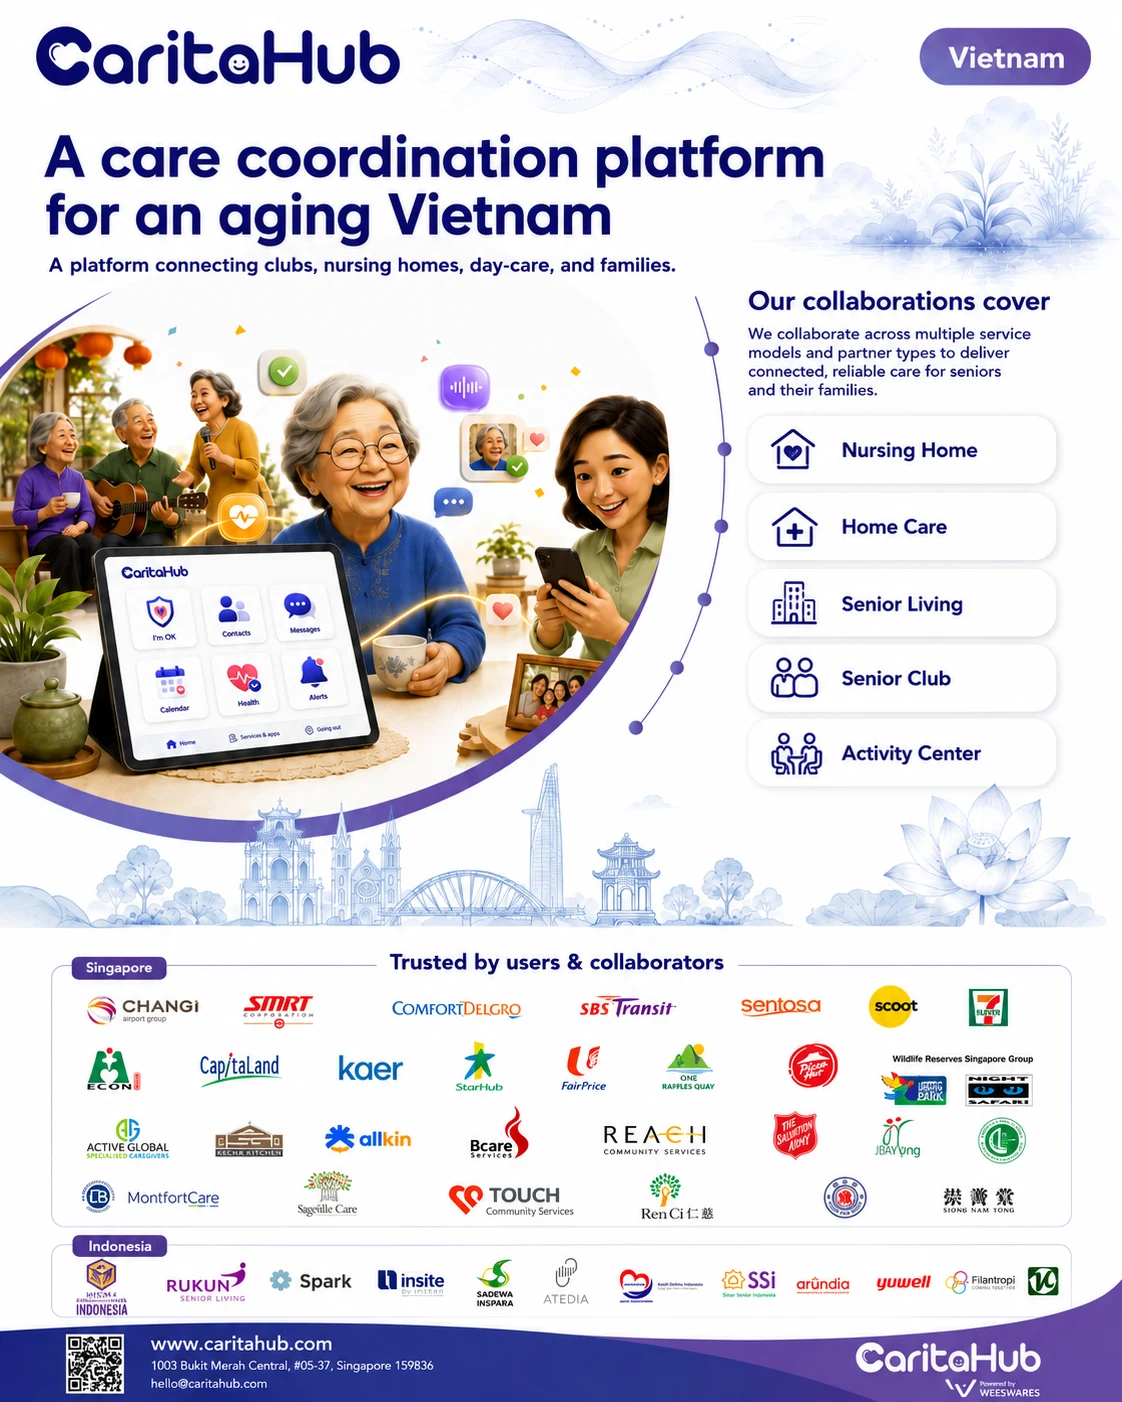
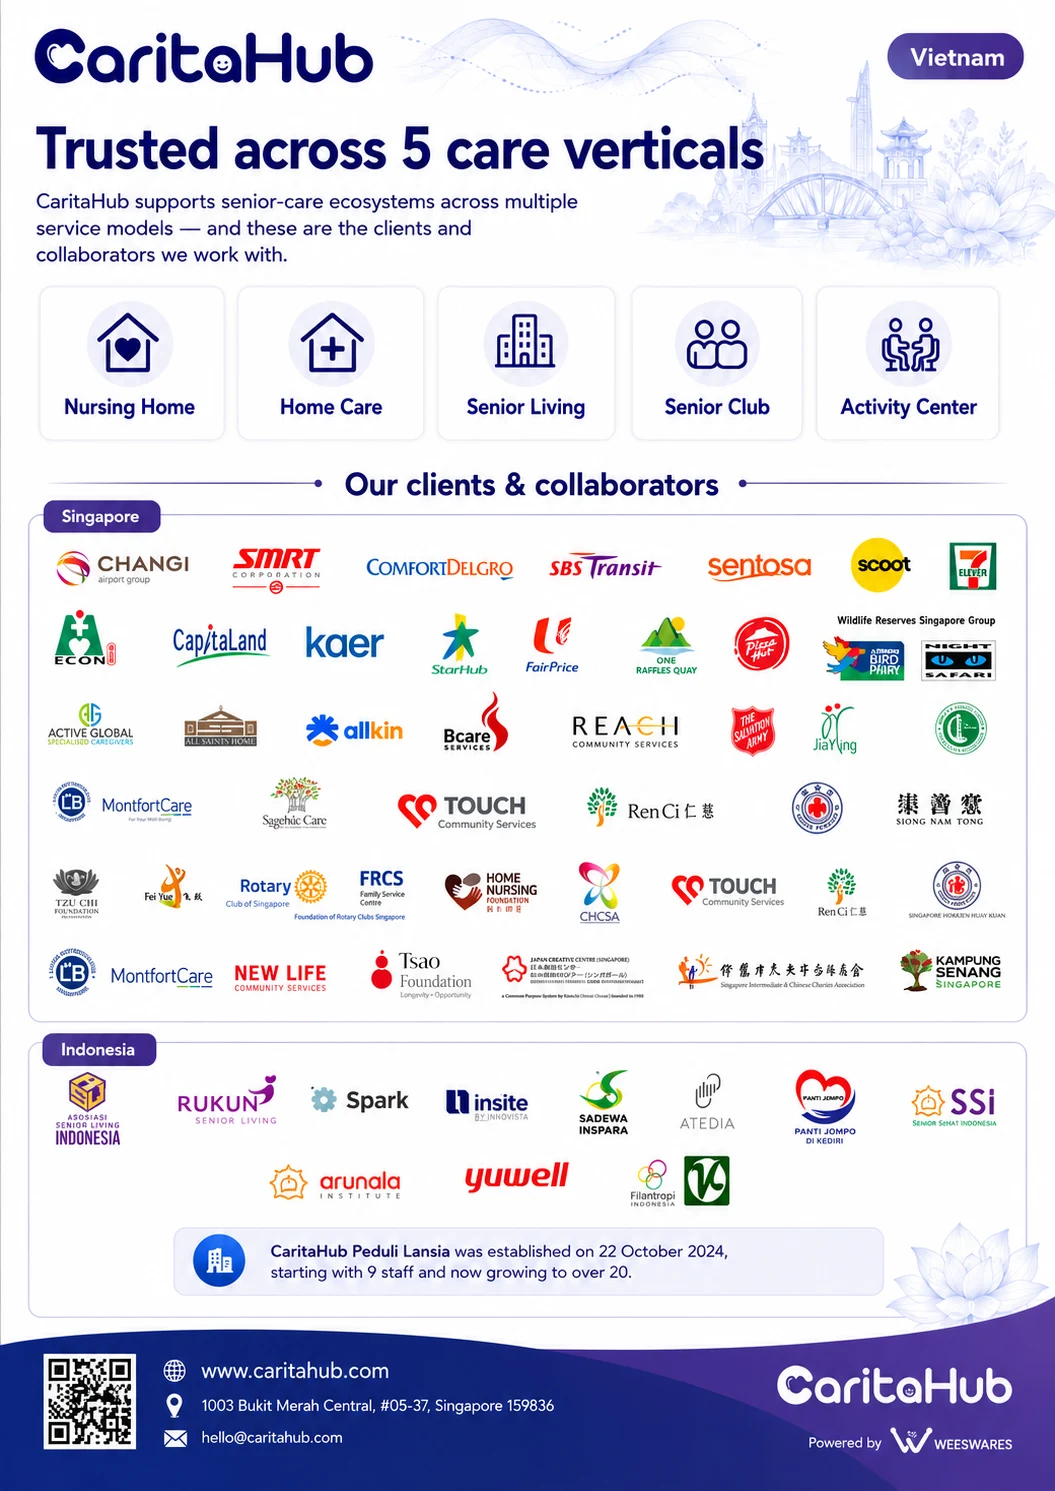
CLB: replace poster 6 with new 'Trusted across 5 care verticals' poster; SW cache v7 (force refresh of changed image)

diff --git a/clb/sw.js b/clb/sw.js
@@ -4,7 +4,7 @@
  */
 'use strict';
 
-const CACHE_NAME = 'clb-v6';
+const CACHE_NAME = 'clb-v7';
 
 /* App shell + icons/QR + background music */
 const SHELL = [
